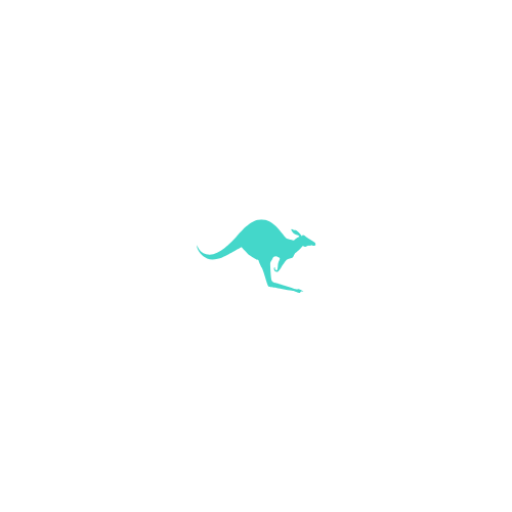
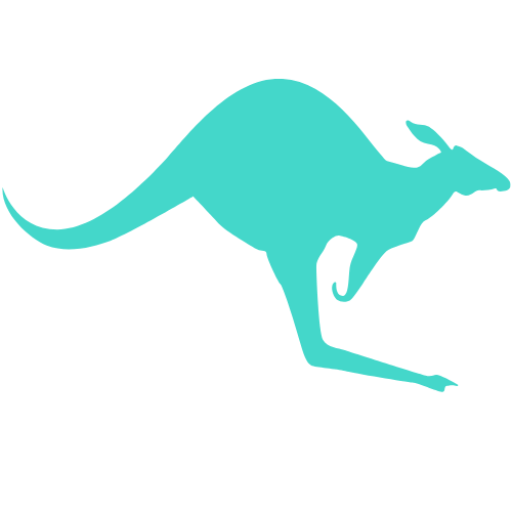
heck

Changed region(s): [[0.0, 0.125, 1.0, 0.7812]]

diff --git a/frontend/public/index.html b/frontend/public/index.html
@@ -12,11 +12,10 @@
     />
     
     <!-- Favicon and App Icons -->
-    <link rel="icon" type="image/x-icon" href="/favicon-v2.ico" />
-    <link rel="icon" type="image/png" sizes="16x16" href="/favicon-16x16.png" />
-    <link rel="icon" type="image/png" sizes="32x32" href="/favicon-32x32.png" />
     <link rel="icon" type="image/svg+xml" href="/favicon.svg" />
+    <link rel="shortcut icon" href="/favicon.ico" />
     <link rel="apple-touch-icon" sizes="180x180" href="/apple-touch-icon.png" />
+    <link rel="icon" type="image/png" href="/favicon-96x96.png" sizes="96x96" />
     <link rel="manifest" href="/site.webmanifest" />
     <script src="https://www.paypal.com/sdk/js?client-id=AaSqjmWfngPs_hETojQ6ceHDtW07AQmQ8dq5Kc-PPz3A-nqoUW6yG1PktY5GjCPqTJC-YoX33Ql-KkHD&currency=USD&components=buttons" ></script>
     <script src="https://www.google.com/recaptcha/api.js" async defer></script>
